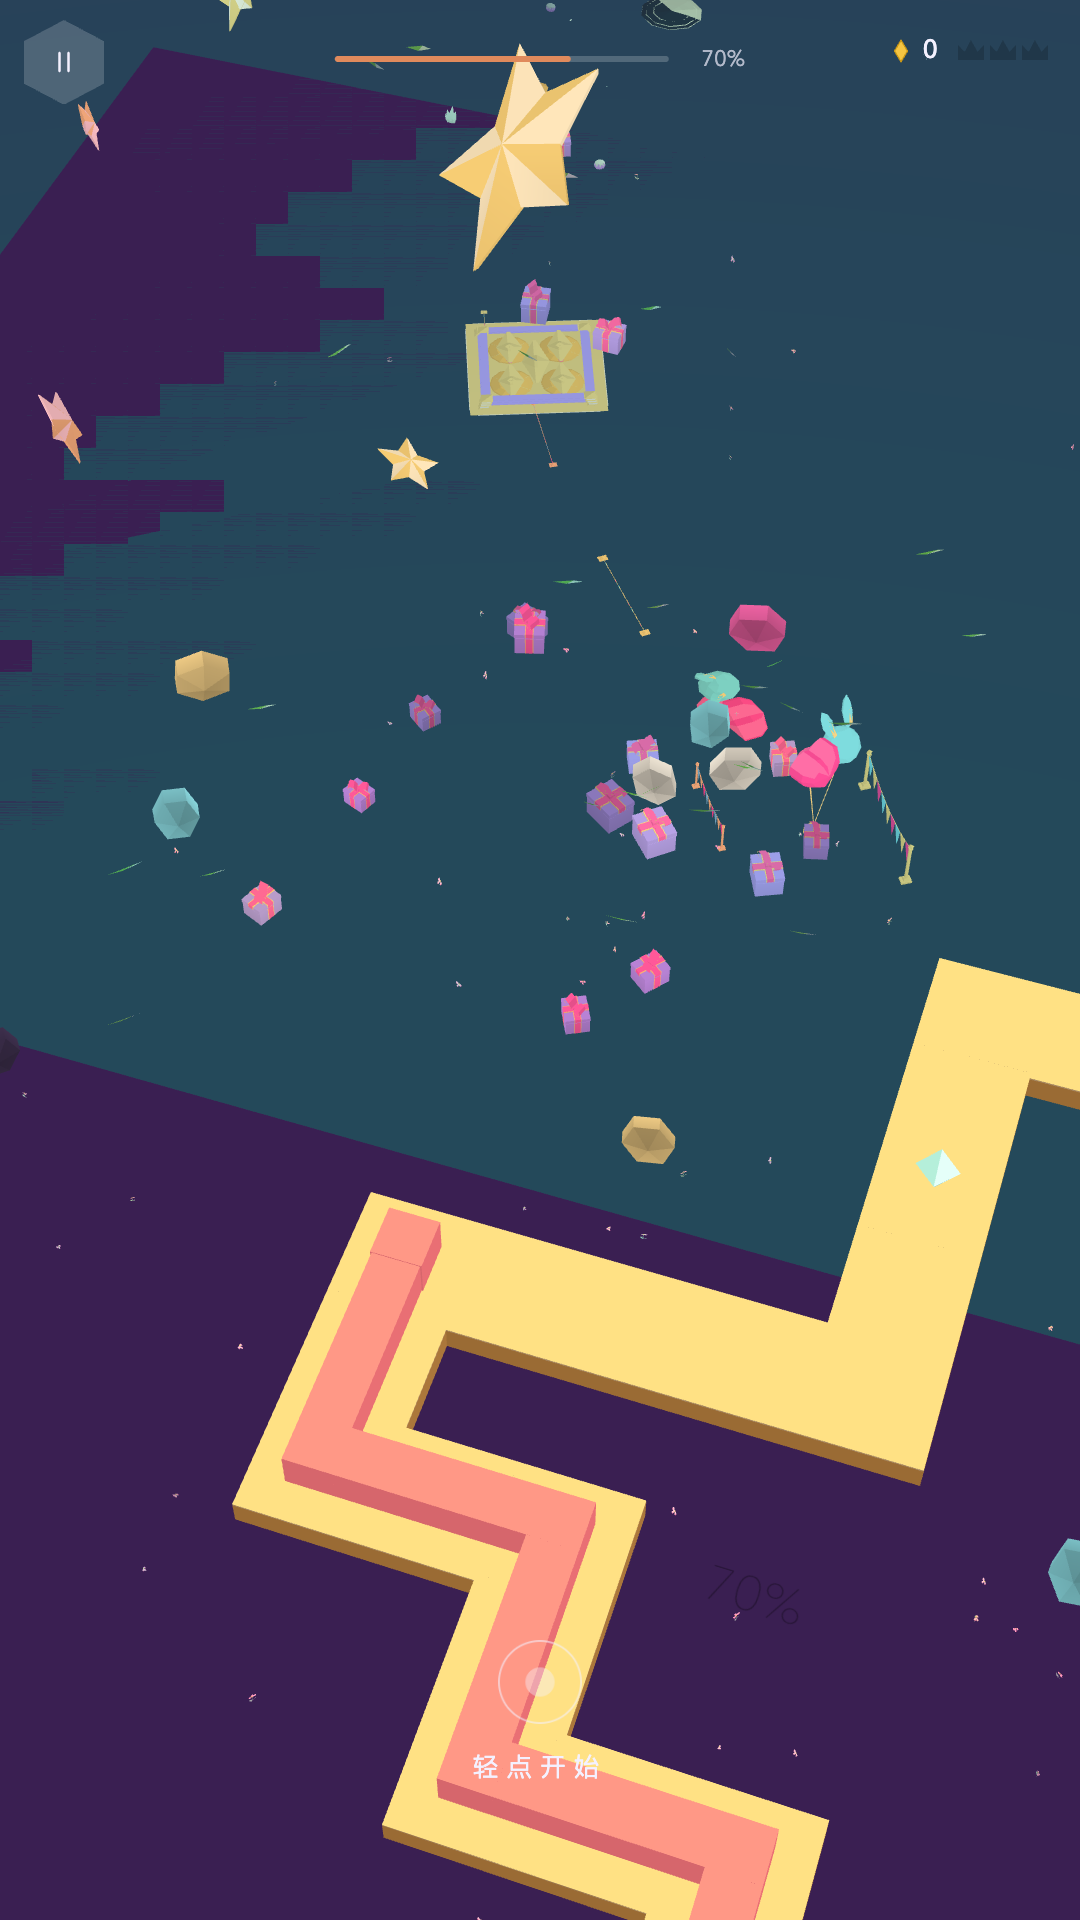
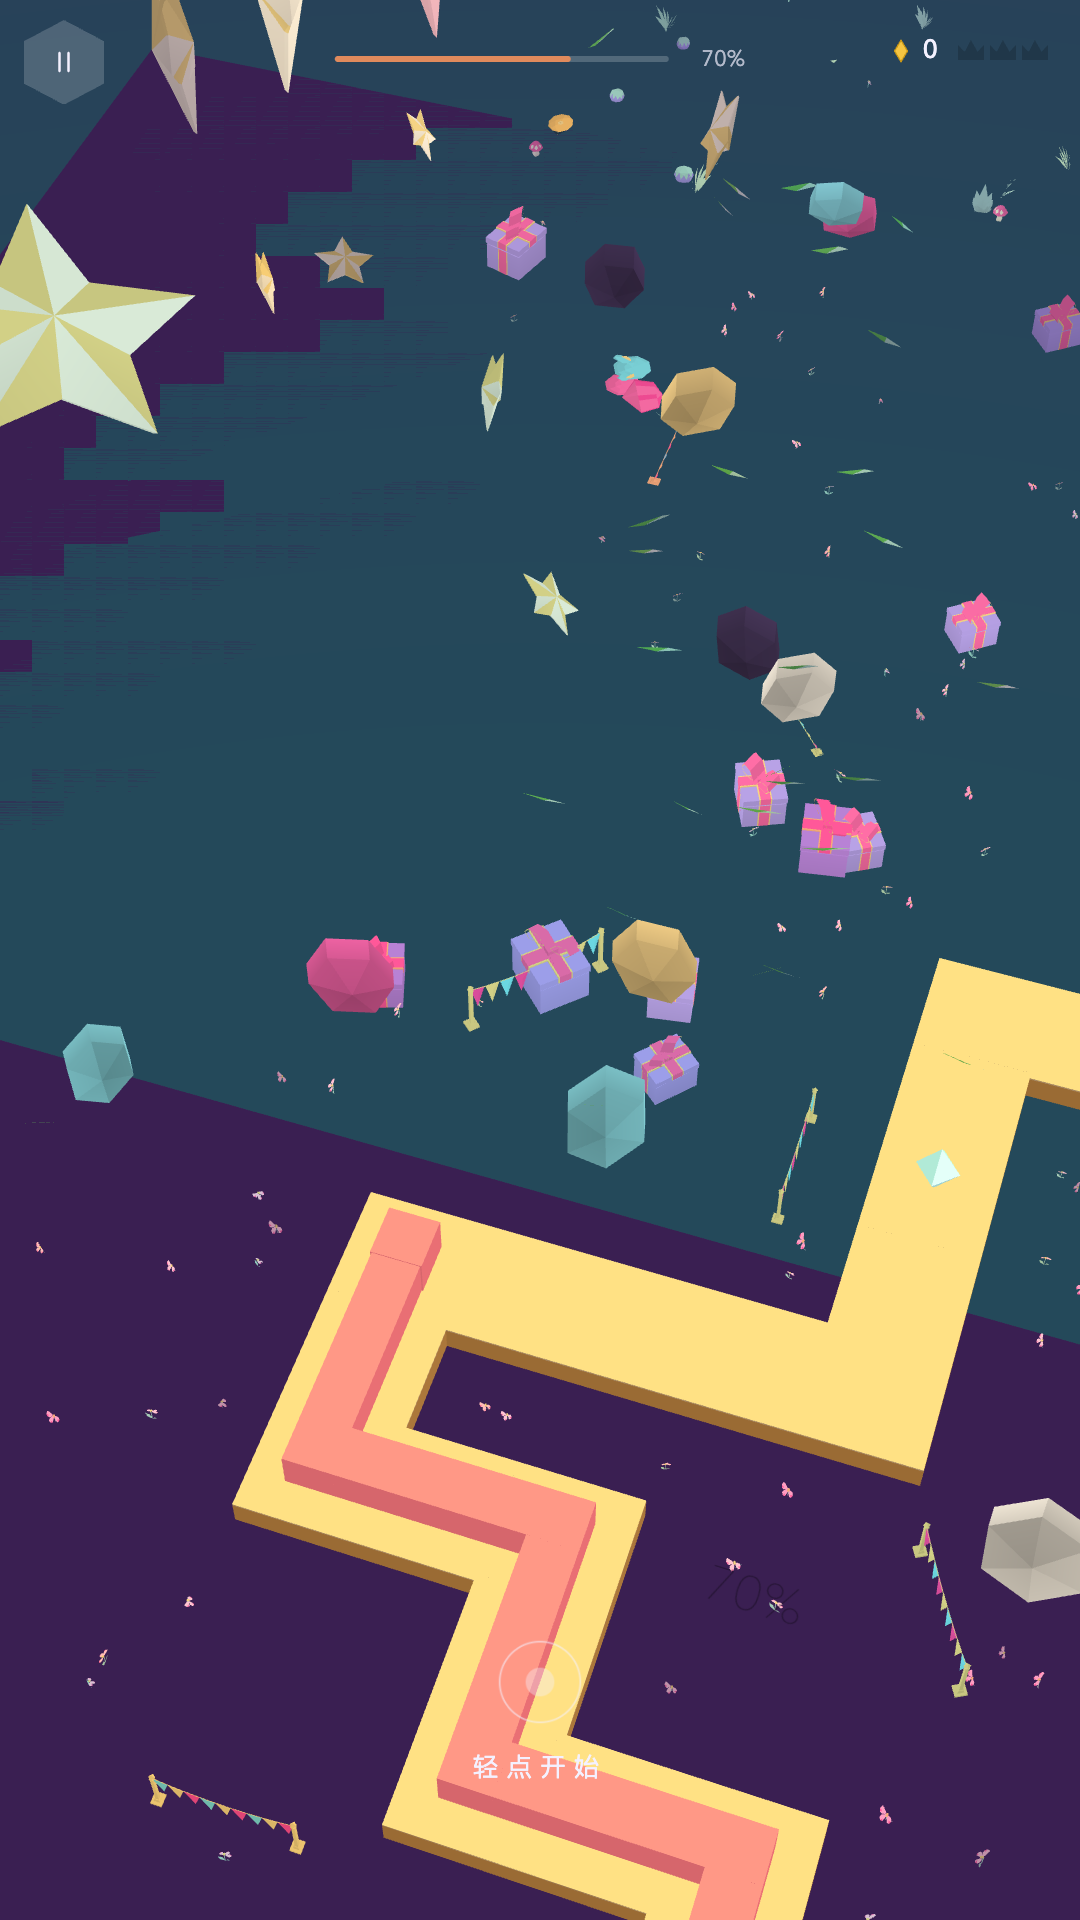
omg-c: Mac shots + perf with dressing pass and round-3 models; paper bake v2 deeper fold shading (lo 0.80, ao 0.07)

diff --git a/tools/models/paper.py b/tools/models/paper.py
@@ -159,7 +159,7 @@ def mirror_x(ob, name=None):
 # ---------------- finish ----------------
 SUN = Vector((-0.4, -0.75, 0.55)).normalized()   # key light from the front-left-top (the game camera side)
 
-def bake_light(objs, height=None, lo=0.88, ao=0.05):
+def bake_light(objs, height=None, lo=0.80, ao=0.07):   # v2: deeper fold shading so facets read at the gameplay camera (lit faces stay exact hex)
     """palette-preserving paper light baked into vertex colours: faces turned to the key light keep the EXACT palette hex
     (k = 1), faces turned away fall to `lo` (crisp folds, never muddy), plus a faint height AO at the page. No tint."""
     zs = [(o.matrix_world @ v.co).z for o in objs for v in o.data.vertices]
